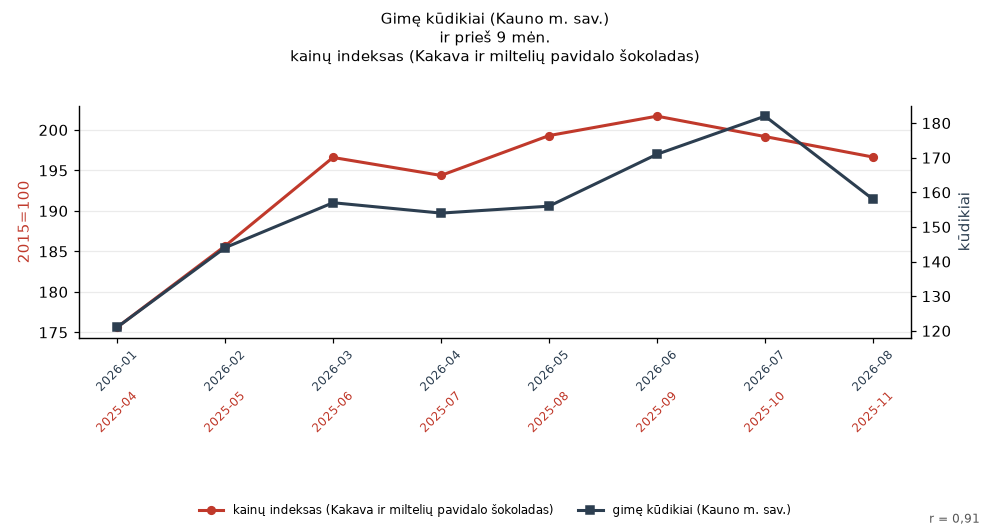
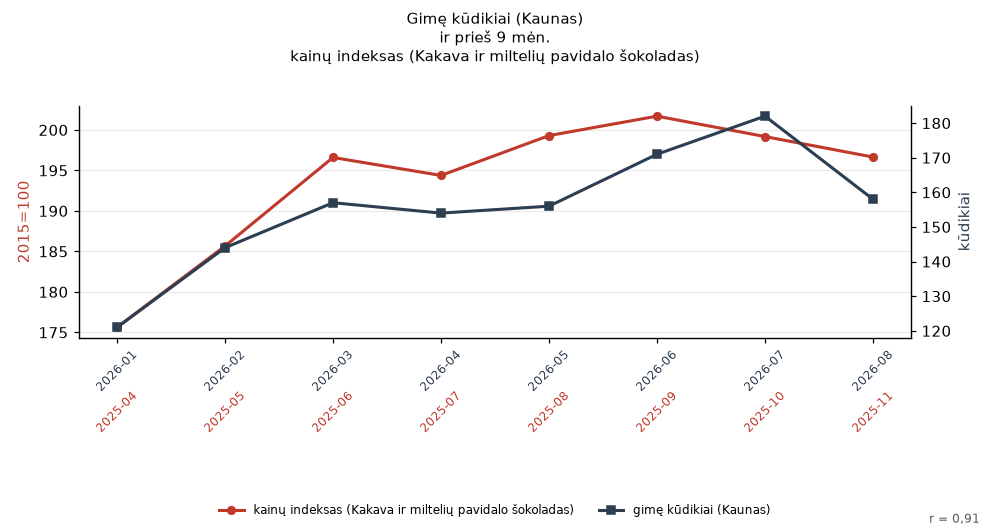
Įrašai: 5

Changed region(s): [[0.2121, 0.9394, 0.7879, 1.0], [0.3939, 0.0, 0.6061, 0.0606]]

diff --git a/index.html b/index.html
@@ -15,8 +15,8 @@
   a{color:#7cb7e0} img{border-color:#333}}
 </style></head><body>
 <header><h1><a href="./">Lyg tyčia</a></h1>
-<p class="meta">Kasdien – dvi Lietuvos atvirų duomenų kreivės, kurios lyg tyčia sutapo.
-Ar tai sutapimas?</p></header>
+<p class="meta">Kasdien – dvi Lietuvos atvirų duomenų kreivės, kurios lyg tyčia sutapo.</p>
+</header>
 <article><p class="meta">2026-10-22</p>
 <h2><a href="./post/5/">Šią savaitę lyg tyčia sutapo: nauji nemokumo procesai (bankrotas) ir santykinė oro drėgmė (Dotnuvos AMS)</a></h2>
 
@@ -24,63 +24,72 @@ Ar tai sutapimas?</p></header>
  alt="grafikas" loading="lazy"></a></p>
 <p class="sources">Duomenų šaltiniai:
  <a href="https://nemokumas.avnt.lt/public/case/list" rel="noopener">Nemokumo bylos (AVNT)</a> · <a href="https://get.data.gov.lt/datasets/gov/lhmt/stebejimai/Matavimas" rel="noopener">LHMT orų stebėjimai</a></p>
-<p class="text">Nauji nemokumo procesai (bankrotas) ir santykinė oro drėgmė (Dotnuvos AMS) kyla ir krenta kartu: r = 0,91 per 7 d. (2026-10-12 – 2026-10-18). Ar tai tikrai tik sutapimas?</p><p class="text">Duomenys: „nauji nemokumo procesai (bankrotas)“ (procesai) ir „santykinė oro drėgmė (Dotnuvos AMS)“ (%).</p><p class="text">Tyler Vigen&#39;o „Spurious Correlations“ dvasia: iš tūkstančių atsitiktinių Lietuvos atvirų duomenų porų šios dvi nupiešė tą pačią kreivę.</p>
+
+<p class="text">Nauji nemokumo procesai (bankrotas) ir santykinė oro drėgmė (Dotnuvos AMS) kyla ir krenta kartu: r = 0,91 per 7 d. (2026-10-12 – 2026-10-18).</p>
 <p class="share">Dalintis:
  <a href="https://www.facebook.com/sharer/sharer.php?u=https%3A//1gnas3000.github.io/lygtycia/post/5/"
  rel="noopener">Facebook</a> ·
  <a href="https://mastodonshare.com/?text=%C5%A0i%C4%85%20savait%C4%99%20lyg%20ty%C4%8Dia%20sutapo%3A%20nauji%20nemokumo%20procesai%20%28bankrotas%29%20ir%20santykin%C4%97%20oro%20dr%C4%97gm%C4%97%20%28Dotnuvos%20AMS%29&url=https%3A//1gnas3000.github.io/lygtycia/post/5/"
  rel="noopener">Mastodon</a> ·
  <a href="https://www.linkedin.com/sharing/share-offsite/?url=https%3A//1gnas3000.github.io/lygtycia/post/5/"
- rel="noopener">LinkedIn</a></p></article><article><p class="meta">2026-10-22</p>
-<h2><a href="./post/4/">Pastaraisiais mėnesiais lyg tyčia sutapo: gimę kūdikiai (Kauno m. sav.) ir prieš 9 mėn. kainų indeksas (Kakava ir miltelių pavidalo šokoladas)</a></h2>
+ rel="noopener">LinkedIn</a></p></article>
+<article><p class="meta">2026-10-22</p>
+<h2><a href="./post/4/">Pastaraisiais mėnesiais lyg tyčia sutapo: gimę kūdikiai (Kaunas) ir prieš 9 mėn. kainų indeksas (Kakava ir miltelių pavidalo šokoladas)</a></h2>
 
 <p><a href="./post/4/"><img src="./post/4/chart.png"
  alt="grafikas" loading="lazy"></a></p>
 <p class="sources">Duomenų šaltiniai:
  <a href="https://get.data.gov.lt/datasets/gov/lsd/statistika/svki/S7R246M2020217" rel="noopener">Vartotojų kainų indeksai</a> · <a href="https://osp.stat.gov.lt/statistiniu-rodikliu-analize?indicator=S3R842" rel="noopener">Gimusieji per mėnesį (Valstybės duomenų agentūra)</a></p>
-<p class="text">Gimę kūdikiai (Kauno m. sav.) ir prieš 9 mėn. kainų indeksas (Kakava ir miltelių pavidalo šokoladas) kyla ir krenta kartu: r = 0,91 per 8 mėn. (2026-01 – 2026-08). Ar tai tikrai tik sutapimas?</p><p class="text">Duomenys: „kainų indeksas (Kakava ir miltelių pavidalo šokoladas)“ (2015=100) ir „gimę kūdikiai (Kauno m. sav.)“ (kūdikiai).</p><p class="text">Tyler Vigen&#39;o „Spurious Correlations“ dvasia: iš tūkstančių atsitiktinių Lietuvos atvirų duomenų porų šios dvi nupiešė tą pačią kreivę.</p>
+
+<p class="text">Gimę kūdikiai (Kaunas) ir prieš 9 mėn. kainų indeksas (Kakava ir miltelių pavidalo šokoladas) kyla ir krenta kartu: r = 0,91 per 8 mėn. (2026-01 – 2026-08).</p>
 <p class="share">Dalintis:
  <a href="https://www.facebook.com/sharer/sharer.php?u=https%3A//1gnas3000.github.io/lygtycia/post/4/"
  rel="noopener">Facebook</a> ·
- <a href="https://mastodonshare.com/?text=Pastaraisiais%20m%C4%97nesiais%20lyg%20ty%C4%8Dia%20sutapo%3A%20gim%C4%99%20k%C5%ABdikiai%20%28Kauno%20m.%20sav.%29%20ir%20prie%C5%A1%209%20m%C4%97n.%20kain%C5%B3%20indeksas%20%28Kakava%20ir%20milteli%C5%B3%20pavidalo%20%C5%A1okoladas%29&url=https%3A//1gnas3000.github.io/lygtycia/post/4/"
+ <a href="https://mastodonshare.com/?text=Pastaraisiais%20m%C4%97nesiais%20lyg%20ty%C4%8Dia%20sutapo%3A%20gim%C4%99%20k%C5%ABdikiai%20%28Kaunas%29%20ir%20prie%C5%A1%209%20m%C4%97n.%20kain%C5%B3%20indeksas%20%28Kakava%20ir%20milteli%C5%B3%20pavidalo%20%C5%A1okoladas%29&url=https%3A//1gnas3000.github.io/lygtycia/post/4/"
  rel="noopener">Mastodon</a> ·
  <a href="https://www.linkedin.com/sharing/share-offsite/?url=https%3A//1gnas3000.github.io/lygtycia/post/4/"
- rel="noopener">LinkedIn</a></p></article><article><p class="meta">2026-10-22</p>
-<h2><a href="./post/3/">Pastaraisiais mėnesiais lyg tyčia sutapo: gimę kūdikiai (Trakų r. sav.) ir prieš 9 mėn. į Klaipėdą atplaukę laivai (keleiviniai keltai)</a></h2>
+ rel="noopener">LinkedIn</a></p></article>
+<article><p class="meta">2026-10-22</p>
+<h2><a href="./post/3/">Pastaraisiais mėnesiais lyg tyčia sutapo: gimę kūdikiai (Šakių r. sav.) ir prieš 9 mėn. vaistinėms parduotos vaistų pakuotės (Benzidamino hidrochloridas/Cetilpiridinio chloridas)</a></h2>
 
 <p><a href="./post/3/"><img src="./post/3/chart.png"
  alt="grafikas" loading="lazy"></a></p>
 <p class="sources">Duomenų šaltiniai:
- <a href="https://get.data.gov.lt/datasets/gov/kvjud/kroviniai/Operacija" rel="noopener">Klaipėdos uosto laivų operacijos</a> · <a href="https://osp.stat.gov.lt/statistiniu-rodikliu-analize?indicator=S3R842" rel="noopener">Gimusieji per mėnesį (Valstybės duomenų agentūra)</a></p>
-<p class="text">Gimę kūdikiai (Trakų r. sav.) ir prieš 9 mėn. į Klaipėdą atplaukę laivai (keleiviniai keltai) kyla ir krenta kartu: r = 0,92 per 8 mėn. (2025-10 – 2026-05). Ar tai tikrai tik sutapimas?</p><p class="text">Duomenys: „į Klaipėdą atplaukę laivai (keleiviniai keltai)“ (laivai) ir „gimę kūdikiai (Trakų r. sav.)“ (kūdikiai).</p><p class="text">Tyler Vigen&#39;o „Spurious Correlations“ dvasia: iš tūkstančių atsitiktinių Lietuvos atvirų duomenų porų šios dvi nupiešė tą pačią kreivę.</p>
+ <a href="https://get.data.gov.lt/datasets/gov/vvkt/pakuociu_pardavimai/ParduotaPakuote" rel="noopener">Vaistų pakuočių pardavimai (VVKT)</a> · <a href="https://osp.stat.gov.lt/statistiniu-rodikliu-analize?indicator=S3R842" rel="noopener">Gimusieji per mėnesį (Valstybės duomenų agentūra)</a></p>
+
+<p class="text">Gimę kūdikiai (Šakių r. sav.) ir prieš 9 mėn. vaistinėms parduotos vaistų pakuotės (Benzidamino hidrochloridas/Cetilpiridinio chloridas) kyla ir krenta kartu: r = 0,93 per 8 mėn. (2025-10 – 2026-05).</p>
 <p class="share">Dalintis:
  <a href="https://www.facebook.com/sharer/sharer.php?u=https%3A//1gnas3000.github.io/lygtycia/post/3/"
  rel="noopener">Facebook</a> ·
- <a href="https://mastodonshare.com/?text=Pastaraisiais%20m%C4%97nesiais%20lyg%20ty%C4%8Dia%20sutapo%3A%20gim%C4%99%20k%C5%ABdikiai%20%28Trak%C5%B3%20r.%20sav.%29%20ir%20prie%C5%A1%209%20m%C4%97n.%20%C4%AF%20Klaip%C4%97d%C4%85%20atplauk%C4%99%20laivai%20%28keleiviniai%20keltai%29&url=https%3A//1gnas3000.github.io/lygtycia/post/3/"
+ <a href="https://mastodonshare.com/?text=Pastaraisiais%20m%C4%97nesiais%20lyg%20ty%C4%8Dia%20sutapo%3A%20gim%C4%99%20k%C5%ABdikiai%20%28%C5%A0aki%C5%B3%20r.%20sav.%29%20ir%20prie%C5%A1%209%20m%C4%97n.%20vaistin%C4%97ms%20parduotos%20vaist%C5%B3%20pakuot%C4%97s%20%28Benzidamino%20hidrochloridas/Cetilpiridinio%20chloridas%29&url=https%3A//1gnas3000.github.io/lygtycia/post/3/"
  rel="noopener">Mastodon</a> ·
  <a href="https://www.linkedin.com/sharing/share-offsite/?url=https%3A//1gnas3000.github.io/lygtycia/post/3/"
- rel="noopener">LinkedIn</a></p></article><article><p class="meta">2026-10-22</p>
+ rel="noopener">LinkedIn</a></p></article>
+<article><p class="meta">2026-10-22</p>
 <h2><a href="./post/2/">Šį mėnesį lyg tyčia sutapo: stipriausias vėjo gūsis (Vėžaičių AMS) ir didžiausia dienos elektros kaina (FI zona)</a></h2>
 
 <p><a href="./post/2/"><img src="./post/2/chart.png"
  alt="grafikas" loading="lazy"></a></p>
 <p class="sources">Duomenų šaltiniai:
  <a href="https://get.data.gov.lt/datasets/gov/lhmt/stebejimai/Matavimas" rel="noopener">LHMT orų stebėjimai</a> · <a href="https://dashboard.elering.ee/en/nps/price" rel="noopener">Elektros kainos biržoje (Elering)</a></p>
-<p class="text">Stipriausias vėjo gūsis (Vėžaičių AMS) ir didžiausia dienos elektros kaina (FI zona) kyla ir krenta kartu: r = 0,96 per 8 sav. (2026-07-13 – 2026-08-31). Ar tai tikrai tik sutapimas?</p><p class="text">Duomenys: „stipriausias vėjo gūsis (Vėžaičių AMS)“ (m/s) ir „didžiausia dienos elektros kaina (FI zona)“ (EUR/MWh).</p><p class="text">Tyler Vigen&#39;o „Spurious Correlations“ dvasia: iš tūkstančių atsitiktinių Lietuvos atvirų duomenų porų šios dvi nupiešė tą pačią kreivę.</p>
+
+<p class="text">Stipriausias vėjo gūsis (Vėžaičių AMS) ir didžiausia dienos elektros kaina (FI zona) kyla ir krenta kartu: r = 0,96 per 8 sav. (2026-07-13 – 2026-08-31).</p>
 <p class="share">Dalintis:
  <a href="https://www.facebook.com/sharer/sharer.php?u=https%3A//1gnas3000.github.io/lygtycia/post/2/"
  rel="noopener">Facebook</a> ·
  <a href="https://mastodonshare.com/?text=%C5%A0%C4%AF%20m%C4%97nes%C4%AF%20lyg%20ty%C4%8Dia%20sutapo%3A%20stipriausias%20v%C4%97jo%20g%C5%ABsis%20%28V%C4%97%C5%BEai%C4%8Di%C5%B3%20AMS%29%20ir%20did%C5%BEiausia%20dienos%20elektros%20kaina%20%28FI%20zona%29&url=https%3A//1gnas3000.github.io/lygtycia/post/2/"
  rel="noopener">Mastodon</a> ·
  <a href="https://www.linkedin.com/sharing/share-offsite/?url=https%3A//1gnas3000.github.io/lygtycia/post/2/"
- rel="noopener">LinkedIn</a></p></article><article><p class="meta">2026-10-22</p>
+ rel="noopener">LinkedIn</a></p></article>
+<article><p class="meta">2026-10-22</p>
 <h2><a href="./post/1/">Šią savaitę lyg tyčia sutapo: oro temperatūra (Pagėgių AMS) ir laivų operacijos Klaipėdos uoste (Keleivinis ro-ro)</a></h2>
 
 <p><a href="./post/1/"><img src="./post/1/chart.png"
  alt="grafikas" loading="lazy"></a></p>
 <p class="sources">Duomenų šaltiniai:
  <a href="https://get.data.gov.lt/datasets/gov/lhmt/stebejimai/Matavimas" rel="noopener">LHMT orų stebėjimai</a> · <a href="https://get.data.gov.lt/datasets/gov/kvjud/kroviniai/Operacija" rel="noopener">Klaipėdos uosto laivų operacijos</a></p>
-<p class="text">Oro temperatūra (Pagėgių AMS) ir laivų operacijos Klaipėdos uoste (Keleivinis ro-ro) kyla ir krenta kartu: r = 0,93 per 7 d. (2026-10-03 – 2026-10-09). Ar tai tikrai tik sutapimas?</p><p class="text">Duomenys: „oro temperatūra (Pagėgių AMS)“ (°C) ir „laivų operacijos Klaipėdos uoste (Keleivinis ro-ro)“ (operacijos).</p><p class="text">Tyler Vigen&#39;o „Spurious Correlations“ dvasia: iš tūkstančių atsitiktinių Lietuvos atvirų duomenų porų šios dvi nupiešė tą pačią kreivę.</p>
+
+<p class="text">Oro temperatūra (Pagėgių AMS) ir laivų operacijos Klaipėdos uoste (Keleivinis ro-ro) kyla ir krenta kartu: r = 0,93 per 7 d. (2026-10-03 – 2026-10-09).</p>
 <p class="share">Dalintis:
  <a href="https://www.facebook.com/sharer/sharer.php?u=https%3A//1gnas3000.github.io/lygtycia/post/1/"
  rel="noopener">Facebook</a> ·
@@ -88,4 +97,5 @@ Ar tai sutapimas?</p></header>
  rel="noopener">Mastodon</a> ·
  <a href="https://www.linkedin.com/sharing/share-offsite/?url=https%3A//1gnas3000.github.io/lygtycia/post/1/"
  rel="noopener">LinkedIn</a></p></article>
+
 </body></html>

diff --git a/post/3/index.html b/post/3/index.html
@@ -1,11 +1,11 @@
 <!doctype html>
 <html lang="lt"><head><meta charset="utf-8">
 <meta name="viewport" content="width=device-width, initial-scale=1">
-<title>Pastaraisiais mėnesiais lyg tyčia sutapo: gimę kūdikiai (Trakų r. sav.) ir prieš 9 mėn. į Klaipėdą atplaukę laivai (keleiviniai keltai) · Lyg tyčia</title>
+<title>Pastaraisiais mėnesiais lyg tyčia sutapo: gimę kūdikiai (Šakių r. sav.) ir prieš 9 mėn. vaistinėms parduotos vaistų pakuotės (Benzidamino hidrochloridas/Cetilpiridinio chloridas) · Lyg tyčia</title>
 <meta property="og:type" content="article">
 <meta property="og:site_name" content="Lyg tyčia">
-<meta property="og:title" content="Pastaraisiais mėnesiais lyg tyčia sutapo: gimę kūdikiai (Trakų r. sav.) ir prieš 9 mėn. į Klaipėdą atplaukę laivai (keleiviniai keltai)">
-<meta property="og:description" content="Gimę kūdikiai (Trakų r. sav.) ir prieš 9 mėn. į Klaipėdą atplaukę laivai (keleiviniai keltai) kyla ir krenta kartu: r = 0,92 per 8 mėn. (2025-10 – 2026-05). Ar tai tikrai tik sutapimas?">
+<meta property="og:title" content="Pastaraisiais mėnesiais lyg tyčia sutapo: gimę kūdikiai (Šakių r. sav.) ir prieš 9 mėn. vaistinėms parduotos vaistų pakuotės (Benzidamino hidrochloridas/Cetilpiridinio chloridas)">
+<meta property="og:description" content="Gimę kūdikiai (Šakių r. sav.) ir prieš 9 mėn. vaistinėms parduotos vaistų pakuotės (Benzidamino hidrochloridas/Cetilpiridinio chloridas) kyla ir krenta kartu: r = 0,93 per 8 mėn. (2025-10 – 2026-05).">
 <meta property="og:url" content="https://1gnas3000.github.io/lygtycia/post/3/">
 <meta property="og:image" content="https://1gnas3000.github.io/lygtycia/post/3/chart.png">
 <meta name="twitter:card" content="summary_large_image">
@@ -21,25 +21,26 @@
   a{color:#7cb7e0} img{border-color:#333}}
 </style></head><body>
 <header><h1><a href="../../">Lyg tyčia</a></h1>
-<p class="meta">Kasdien – dvi Lietuvos atvirų duomenų kreivės, kurios lyg tyčia sutapo.
-Ar tai sutapimas?</p></header>
+<p class="meta">Kasdien – dvi Lietuvos atvirų duomenų kreivės, kurios lyg tyčia sutapo.</p>
+</header>
 <article><p class="meta">2026-10-22
  · panašios kreivės · mėnesio duomenys
- · r = 0,92</p>
-<h2>Pastaraisiais mėnesiais lyg tyčia sutapo: gimę kūdikiai (Trakų r. sav.) ir prieš 9 mėn. į Klaipėdą atplaukę laivai (keleiviniai keltai)</h2>
+ · r = 0,93</p>
+<h2>Pastaraisiais mėnesiais lyg tyčia sutapo: gimę kūdikiai (Šakių r. sav.) ir prieš 9 mėn. vaistinėms parduotos vaistų pakuotės (Benzidamino hidrochloridas/Cetilpiridinio chloridas)</h2>
 
 <p><a href="../../post/3/"><img src="../../post/3/chart.png"
  alt="grafikas" loading="lazy"></a></p>
 <p class="sources">Duomenų šaltiniai:
- <a href="https://get.data.gov.lt/datasets/gov/kvjud/kroviniai/Operacija" rel="noopener">Klaipėdos uosto laivų operacijos</a> · <a href="https://osp.stat.gov.lt/statistiniu-rodikliu-analize?indicator=S3R842" rel="noopener">Gimusieji per mėnesį (Valstybės duomenų agentūra)</a></p>
-<p class="text">Gimę kūdikiai (Trakų r. sav.) ir prieš 9 mėn. į Klaipėdą atplaukę laivai (keleiviniai keltai) kyla ir krenta kartu: r = 0,92 per 8 mėn. (2025-10 – 2026-05). Ar tai tikrai tik sutapimas?</p><p class="text">Duomenys: „į Klaipėdą atplaukę laivai (keleiviniai keltai)“ (laivai) ir „gimę kūdikiai (Trakų r. sav.)“ (kūdikiai).</p><p class="text">Tyler Vigen&#39;o „Spurious Correlations“ dvasia: iš tūkstančių atsitiktinių Lietuvos atvirų duomenų porų šios dvi nupiešė tą pačią kreivę.</p>
+ <a href="https://get.data.gov.lt/datasets/gov/vvkt/pakuociu_pardavimai/ParduotaPakuote" rel="noopener">Vaistų pakuočių pardavimai (VVKT)</a> · <a href="https://osp.stat.gov.lt/statistiniu-rodikliu-analize?indicator=S3R842" rel="noopener">Gimusieji per mėnesį (Valstybės duomenų agentūra)</a></p>
+
+<p class="text">Gimę kūdikiai (Šakių r. sav.) ir prieš 9 mėn. vaistinėms parduotos vaistų pakuotės (Benzidamino hidrochloridas/Cetilpiridinio chloridas) kyla ir krenta kartu: r = 0,93 per 8 mėn. (2025-10 – 2026-05).</p><p class="text">Duomenys: „vaistinėms parduotos vaistų pakuotės (Benzidamino hidrochloridas/Cetilpiridinio chloridas)“ (pakuotės) ir „gimę kūdikiai (Šakių r. sav.)“ (kūdikiai).</p><p class="text">Tyler Vigen&#39;o „Spurious Correlations“ dvasia: iš tūkstančių atsitiktinių Lietuvos atvirų duomenų porų šios dvi nupiešė tą pačią kreivę.</p>
 <p class="share">Dalintis:
  <a href="https://www.facebook.com/sharer/sharer.php?u=https%3A//1gnas3000.github.io/lygtycia/post/3/"
  rel="noopener">Facebook</a> ·
- <a href="https://mastodonshare.com/?text=Pastaraisiais%20m%C4%97nesiais%20lyg%20ty%C4%8Dia%20sutapo%3A%20gim%C4%99%20k%C5%ABdikiai%20%28Trak%C5%B3%20r.%20sav.%29%20ir%20prie%C5%A1%209%20m%C4%97n.%20%C4%AF%20Klaip%C4%97d%C4%85%20atplauk%C4%99%20laivai%20%28keleiviniai%20keltai%29&url=https%3A//1gnas3000.github.io/lygtycia/post/3/"
+ <a href="https://mastodonshare.com/?text=Pastaraisiais%20m%C4%97nesiais%20lyg%20ty%C4%8Dia%20sutapo%3A%20gim%C4%99%20k%C5%ABdikiai%20%28%C5%A0aki%C5%B3%20r.%20sav.%29%20ir%20prie%C5%A1%209%20m%C4%97n.%20vaistin%C4%97ms%20parduotos%20vaist%C5%B3%20pakuot%C4%97s%20%28Benzidamino%20hidrochloridas/Cetilpiridinio%20chloridas%29&url=https%3A//1gnas3000.github.io/lygtycia/post/3/"
  rel="noopener">Mastodon</a> ·
  <a href="https://www.linkedin.com/sharing/share-offsite/?url=https%3A//1gnas3000.github.io/lygtycia/post/3/"
  rel="noopener">LinkedIn</a></p>
-<p class="note">Eilutės: port.arrivals.passenger_ro_ro_ferries → gimusieji_per_menesi#municipality=Trakų r. sav.#births</p>
+<p class="note">Eilutės: vaistu_pardavimai#drug=Benzidamino hidrochloridas/Cetilpiridinio chloridas#packages → gimusieji_per_menesi#municipality=Šakių r. sav.#births</p>
 <p><a href="../../">← visi įrašai</a></p></article>
 </body></html>

diff --git a/post/4/index.html b/post/4/index.html
@@ -1,11 +1,11 @@
 <!doctype html>
 <html lang="lt"><head><meta charset="utf-8">
 <meta name="viewport" content="width=device-width, initial-scale=1">
-<title>Pastaraisiais mėnesiais lyg tyčia sutapo: gimę kūdikiai (Kauno m. sav.) ir prieš 9 mėn. kainų indeksas (Kakava ir miltelių pavidalo šokoladas) · Lyg tyčia</title>
+<title>Pastaraisiais mėnesiais lyg tyčia sutapo: gimę kūdikiai (Kaunas) ir prieš 9 mėn. kainų indeksas (Kakava ir miltelių pavidalo šokoladas) · Lyg tyčia</title>
 <meta property="og:type" content="article">
 <meta property="og:site_name" content="Lyg tyčia">
-<meta property="og:title" content="Pastaraisiais mėnesiais lyg tyčia sutapo: gimę kūdikiai (Kauno m. sav.) ir prieš 9 mėn. kainų indeksas (Kakava ir miltelių pavidalo šokoladas)">
-<meta property="og:description" content="Gimę kūdikiai (Kauno m. sav.) ir prieš 9 mėn. kainų indeksas (Kakava ir miltelių pavidalo šokoladas) kyla ir krenta kartu: r = 0,91 per 8 mėn. (2026-01 – 2026-08). Ar tai tikrai tik sutapimas?">
+<meta property="og:title" content="Pastaraisiais mėnesiais lyg tyčia sutapo: gimę kūdikiai (Kaunas) ir prieš 9 mėn. kainų indeksas (Kakava ir miltelių pavidalo šokoladas)">
+<meta property="og:description" content="Gimę kūdikiai (Kaunas) ir prieš 9 mėn. kainų indeksas (Kakava ir miltelių pavidalo šokoladas) kyla ir krenta kartu: r = 0,91 per 8 mėn. (2026-01 – 2026-08).">
 <meta property="og:url" content="https://1gnas3000.github.io/lygtycia/post/4/">
 <meta property="og:image" content="https://1gnas3000.github.io/lygtycia/post/4/chart.png">
 <meta name="twitter:card" content="summary_large_image">
@@ -21,25 +21,26 @@
   a{color:#7cb7e0} img{border-color:#333}}
 </style></head><body>
 <header><h1><a href="../../">Lyg tyčia</a></h1>
-<p class="meta">Kasdien – dvi Lietuvos atvirų duomenų kreivės, kurios lyg tyčia sutapo.
-Ar tai sutapimas?</p></header>
+<p class="meta">Kasdien – dvi Lietuvos atvirų duomenų kreivės, kurios lyg tyčia sutapo.</p>
+</header>
 <article><p class="meta">2026-10-22
  · panašios kreivės · mėnesio duomenys
  · r = 0,91</p>
-<h2>Pastaraisiais mėnesiais lyg tyčia sutapo: gimę kūdikiai (Kauno m. sav.) ir prieš 9 mėn. kainų indeksas (Kakava ir miltelių pavidalo šokoladas)</h2>
+<h2>Pastaraisiais mėnesiais lyg tyčia sutapo: gimę kūdikiai (Kaunas) ir prieš 9 mėn. kainų indeksas (Kakava ir miltelių pavidalo šokoladas)</h2>
 
 <p><a href="../../post/4/"><img src="../../post/4/chart.png"
  alt="grafikas" loading="lazy"></a></p>
 <p class="sources">Duomenų šaltiniai:
  <a href="https://get.data.gov.lt/datasets/gov/lsd/statistika/svki/S7R246M2020217" rel="noopener">Vartotojų kainų indeksai</a> · <a href="https://osp.stat.gov.lt/statistiniu-rodikliu-analize?indicator=S3R842" rel="noopener">Gimusieji per mėnesį (Valstybės duomenų agentūra)</a></p>
-<p class="text">Gimę kūdikiai (Kauno m. sav.) ir prieš 9 mėn. kainų indeksas (Kakava ir miltelių pavidalo šokoladas) kyla ir krenta kartu: r = 0,91 per 8 mėn. (2026-01 – 2026-08). Ar tai tikrai tik sutapimas?</p><p class="text">Duomenys: „kainų indeksas (Kakava ir miltelių pavidalo šokoladas)“ (2015=100) ir „gimę kūdikiai (Kauno m. sav.)“ (kūdikiai).</p><p class="text">Tyler Vigen&#39;o „Spurious Correlations“ dvasia: iš tūkstančių atsitiktinių Lietuvos atvirų duomenų porų šios dvi nupiešė tą pačią kreivę.</p>
+
+<p class="text">Gimę kūdikiai (Kaunas) ir prieš 9 mėn. kainų indeksas (Kakava ir miltelių pavidalo šokoladas) kyla ir krenta kartu: r = 0,91 per 8 mėn. (2026-01 – 2026-08).</p><p class="text">Duomenys: „kainų indeksas (Kakava ir miltelių pavidalo šokoladas)“ (2015=100) ir „gimę kūdikiai (Kaunas)“ (kūdikiai).</p><p class="text">Tyler Vigen&#39;o „Spurious Correlations“ dvasia: iš tūkstančių atsitiktinių Lietuvos atvirų duomenų porų šios dvi nupiešė tą pačią kreivę.</p>
 <p class="share">Dalintis:
  <a href="https://www.facebook.com/sharer/sharer.php?u=https%3A//1gnas3000.github.io/lygtycia/post/4/"
  rel="noopener">Facebook</a> ·
- <a href="https://mastodonshare.com/?text=Pastaraisiais%20m%C4%97nesiais%20lyg%20ty%C4%8Dia%20sutapo%3A%20gim%C4%99%20k%C5%ABdikiai%20%28Kauno%20m.%20sav.%29%20ir%20prie%C5%A1%209%20m%C4%97n.%20kain%C5%B3%20indeksas%20%28Kakava%20ir%20milteli%C5%B3%20pavidalo%20%C5%A1okoladas%29&url=https%3A//1gnas3000.github.io/lygtycia/post/4/"
+ <a href="https://mastodonshare.com/?text=Pastaraisiais%20m%C4%97nesiais%20lyg%20ty%C4%8Dia%20sutapo%3A%20gim%C4%99%20k%C5%ABdikiai%20%28Kaunas%29%20ir%20prie%C5%A1%209%20m%C4%97n.%20kain%C5%B3%20indeksas%20%28Kakava%20ir%20milteli%C5%B3%20pavidalo%20%C5%A1okoladas%29&url=https%3A//1gnas3000.github.io/lygtycia/post/4/"
  rel="noopener">Mastodon</a> ·
  <a href="https://www.linkedin.com/sharing/share-offsite/?url=https%3A//1gnas3000.github.io/lygtycia/post/4/"
  rel="noopener">LinkedIn</a></p>
-<p class="note">Eilutės: kainu_indeksai#item=Kakava ir miltelių pavidalo šokoladas#index → gimusieji_per_menesi#municipality=Kauno m. sav.#births</p>
+<p class="note">Eilutės: kainu_indeksai#item=Kakava ir miltelių pavidalo šokoladas#index → births.local.kaunas</p>
 <p><a href="../../">← visi įrašai</a></p></article>
 </body></html>

diff --git a/post/1/index.html b/post/1/index.html
@@ -5,7 +5,7 @@
 <meta property="og:type" content="article">
 <meta property="og:site_name" content="Lyg tyčia">
 <meta property="og:title" content="Šią savaitę lyg tyčia sutapo: oro temperatūra (Pagėgių AMS) ir laivų operacijos Klaipėdos uoste (Keleivinis ro-ro)">
-<meta property="og:description" content="Oro temperatūra (Pagėgių AMS) ir laivų operacijos Klaipėdos uoste (Keleivinis ro-ro) kyla ir krenta kartu: r = 0,93 per 7 d. (2026-10-03 – 2026-10-09). Ar tai tikrai tik sutapimas?">
+<meta property="og:description" content="Oro temperatūra (Pagėgių AMS) ir laivų operacijos Klaipėdos uoste (Keleivinis ro-ro) kyla ir krenta kartu: r = 0,93 per 7 d. (2026-10-03 – 2026-10-09).">
 <meta property="og:url" content="https://1gnas3000.github.io/lygtycia/post/1/">
 <meta property="og:image" content="https://1gnas3000.github.io/lygtycia/post/1/chart.png">
 <meta name="twitter:card" content="summary_large_image">
@@ -21,8 +21,8 @@
   a{color:#7cb7e0} img{border-color:#333}}
 </style></head><body>
 <header><h1><a href="../../">Lyg tyčia</a></h1>
-<p class="meta">Kasdien – dvi Lietuvos atvirų duomenų kreivės, kurios lyg tyčia sutapo.
-Ar tai sutapimas?</p></header>
+<p class="meta">Kasdien – dvi Lietuvos atvirų duomenų kreivės, kurios lyg tyčia sutapo.</p>
+</header>
 <article><p class="meta">2026-10-22
  · panašios kreivės · dienos duomenys
  · r = 0,93</p>
@@ -32,7 +32,8 @@ Ar tai sutapimas?</p></header>
  alt="grafikas" loading="lazy"></a></p>
 <p class="sources">Duomenų šaltiniai:
  <a href="https://get.data.gov.lt/datasets/gov/lhmt/stebejimai/Matavimas" rel="noopener">LHMT orų stebėjimai</a> · <a href="https://get.data.gov.lt/datasets/gov/kvjud/kroviniai/Operacija" rel="noopener">Klaipėdos uosto laivų operacijos</a></p>
-<p class="text">Oro temperatūra (Pagėgių AMS) ir laivų operacijos Klaipėdos uoste (Keleivinis ro-ro) kyla ir krenta kartu: r = 0,93 per 7 d. (2026-10-03 – 2026-10-09). Ar tai tikrai tik sutapimas?</p><p class="text">Duomenys: „oro temperatūra (Pagėgių AMS)“ (°C) ir „laivų operacijos Klaipėdos uoste (Keleivinis ro-ro)“ (operacijos).</p><p class="text">Tyler Vigen&#39;o „Spurious Correlations“ dvasia: iš tūkstančių atsitiktinių Lietuvos atvirų duomenų porų šios dvi nupiešė tą pačią kreivę.</p>
+
+<p class="text">Oro temperatūra (Pagėgių AMS) ir laivų operacijos Klaipėdos uoste (Keleivinis ro-ro) kyla ir krenta kartu: r = 0,93 per 7 d. (2026-10-03 – 2026-10-09).</p><p class="text">Duomenys: „oro temperatūra (Pagėgių AMS)“ (°C) ir „laivų operacijos Klaipėdos uoste (Keleivinis ro-ro)“ (operacijos).</p><p class="text">Tyler Vigen&#39;o „Spurious Correlations“ dvasia: iš tūkstančių atsitiktinių Lietuvos atvirų duomenų porų šios dvi nupiešė tą pačią kreivę.</p>
 <p class="share">Dalintis:
  <a href="https://www.facebook.com/sharer/sharer.php?u=https%3A//1gnas3000.github.io/lygtycia/post/1/"
  rel="noopener">Facebook</a> ·

diff --git a/post/2/index.html b/post/2/index.html
@@ -5,7 +5,7 @@
 <meta property="og:type" content="article">
 <meta property="og:site_name" content="Lyg tyčia">
 <meta property="og:title" content="Šį mėnesį lyg tyčia sutapo: stipriausias vėjo gūsis (Vėžaičių AMS) ir didžiausia dienos elektros kaina (FI zona)">
-<meta property="og:description" content="Stipriausias vėjo gūsis (Vėžaičių AMS) ir didžiausia dienos elektros kaina (FI zona) kyla ir krenta kartu: r = 0,96 per 8 sav. (2026-07-13 – 2026-08-31). Ar tai tikrai tik sutapimas?">
+<meta property="og:description" content="Stipriausias vėjo gūsis (Vėžaičių AMS) ir didžiausia dienos elektros kaina (FI zona) kyla ir krenta kartu: r = 0,96 per 8 sav. (2026-07-13 – 2026-08-31).">
 <meta property="og:url" content="https://1gnas3000.github.io/lygtycia/post/2/">
 <meta property="og:image" content="https://1gnas3000.github.io/lygtycia/post/2/chart.png">
 <meta name="twitter:card" content="summary_large_image">
@@ -21,8 +21,8 @@
   a{color:#7cb7e0} img{border-color:#333}}
 </style></head><body>
 <header><h1><a href="../../">Lyg tyčia</a></h1>
-<p class="meta">Kasdien – dvi Lietuvos atvirų duomenų kreivės, kurios lyg tyčia sutapo.
-Ar tai sutapimas?</p></header>
+<p class="meta">Kasdien – dvi Lietuvos atvirų duomenų kreivės, kurios lyg tyčia sutapo.</p>
+</header>
 <article><p class="meta">2026-10-22
  · panašios kreivės · savaitės duomenys
  · r = 0,96</p>
@@ -32,7 +32,8 @@ Ar tai sutapimas?</p></header>
  alt="grafikas" loading="lazy"></a></p>
 <p class="sources">Duomenų šaltiniai:
  <a href="https://get.data.gov.lt/datasets/gov/lhmt/stebejimai/Matavimas" rel="noopener">LHMT orų stebėjimai</a> · <a href="https://dashboard.elering.ee/en/nps/price" rel="noopener">Elektros kainos biržoje (Elering)</a></p>
-<p class="text">Stipriausias vėjo gūsis (Vėžaičių AMS) ir didžiausia dienos elektros kaina (FI zona) kyla ir krenta kartu: r = 0,96 per 8 sav. (2026-07-13 – 2026-08-31). Ar tai tikrai tik sutapimas?</p><p class="text">Duomenys: „stipriausias vėjo gūsis (Vėžaičių AMS)“ (m/s) ir „didžiausia dienos elektros kaina (FI zona)“ (EUR/MWh).</p><p class="text">Tyler Vigen&#39;o „Spurious Correlations“ dvasia: iš tūkstančių atsitiktinių Lietuvos atvirų duomenų porų šios dvi nupiešė tą pačią kreivę.</p>
+
+<p class="text">Stipriausias vėjo gūsis (Vėžaičių AMS) ir didžiausia dienos elektros kaina (FI zona) kyla ir krenta kartu: r = 0,96 per 8 sav. (2026-07-13 – 2026-08-31).</p><p class="text">Duomenys: „stipriausias vėjo gūsis (Vėžaičių AMS)“ (m/s) ir „didžiausia dienos elektros kaina (FI zona)“ (EUR/MWh).</p><p class="text">Tyler Vigen&#39;o „Spurious Correlations“ dvasia: iš tūkstančių atsitiktinių Lietuvos atvirų duomenų porų šios dvi nupiešė tą pačią kreivę.</p>
 <p class="share">Dalintis:
  <a href="https://www.facebook.com/sharer/sharer.php?u=https%3A//1gnas3000.github.io/lygtycia/post/2/"
  rel="noopener">Facebook</a> ·

diff --git a/post/5/index.html b/post/5/index.html
@@ -5,7 +5,7 @@
 <meta property="og:type" content="article">
 <meta property="og:site_name" content="Lyg tyčia">
 <meta property="og:title" content="Šią savaitę lyg tyčia sutapo: nauji nemokumo procesai (bankrotas) ir santykinė oro drėgmė (Dotnuvos AMS)">
-<meta property="og:description" content="Nauji nemokumo procesai (bankrotas) ir santykinė oro drėgmė (Dotnuvos AMS) kyla ir krenta kartu: r = 0,91 per 7 d. (2026-10-12 – 2026-10-18). Ar tai tikrai tik sutapimas?">
+<meta property="og:description" content="Nauji nemokumo procesai (bankrotas) ir santykinė oro drėgmė (Dotnuvos AMS) kyla ir krenta kartu: r = 0,91 per 7 d. (2026-10-12 – 2026-10-18).">
 <meta property="og:url" content="https://1gnas3000.github.io/lygtycia/post/5/">
 <meta property="og:image" content="https://1gnas3000.github.io/lygtycia/post/5/chart.png">
 <meta name="twitter:card" content="summary_large_image">
@@ -21,8 +21,8 @@
   a{color:#7cb7e0} img{border-color:#333}}
 </style></head><body>
 <header><h1><a href="../../">Lyg tyčia</a></h1>
-<p class="meta">Kasdien – dvi Lietuvos atvirų duomenų kreivės, kurios lyg tyčia sutapo.
-Ar tai sutapimas?</p></header>
+<p class="meta">Kasdien – dvi Lietuvos atvirų duomenų kreivės, kurios lyg tyčia sutapo.</p>
+</header>
 <article><p class="meta">2026-10-22
  · panašios kreivės · dienos duomenys
  · r = 0,91</p>
@@ -32,7 +32,8 @@ Ar tai sutapimas?</p></header>
  alt="grafikas" loading="lazy"></a></p>
 <p class="sources">Duomenų šaltiniai:
  <a href="https://nemokumas.avnt.lt/public/case/list" rel="noopener">Nemokumo bylos (AVNT)</a> · <a href="https://get.data.gov.lt/datasets/gov/lhmt/stebejimai/Matavimas" rel="noopener">LHMT orų stebėjimai</a></p>
-<p class="text">Nauji nemokumo procesai (bankrotas) ir santykinė oro drėgmė (Dotnuvos AMS) kyla ir krenta kartu: r = 0,91 per 7 d. (2026-10-12 – 2026-10-18). Ar tai tikrai tik sutapimas?</p><p class="text">Duomenys: „nauji nemokumo procesai (bankrotas)“ (procesai) ir „santykinė oro drėgmė (Dotnuvos AMS)“ (%).</p><p class="text">Tyler Vigen&#39;o „Spurious Correlations“ dvasia: iš tūkstančių atsitiktinių Lietuvos atvirų duomenų porų šios dvi nupiešė tą pačią kreivę.</p>
+
+<p class="text">Nauji nemokumo procesai (bankrotas) ir santykinė oro drėgmė (Dotnuvos AMS) kyla ir krenta kartu: r = 0,91 per 7 d. (2026-10-12 – 2026-10-18).</p><p class="text">Duomenys: „nauji nemokumo procesai (bankrotas)“ (procesai) ir „santykinė oro drėgmė (Dotnuvos AMS)“ (%).</p><p class="text">Tyler Vigen&#39;o „Spurious Correlations“ dvasia: iš tūkstančių atsitiktinių Lietuvos atvirų duomenų porų šios dvi nupiešė tą pačią kreivę.</p>
 <p class="share">Dalintis:
  <a href="https://www.facebook.com/sharer/sharer.php?u=https%3A//1gnas3000.github.io/lygtycia/post/5/"
  rel="noopener">Facebook</a> ·
